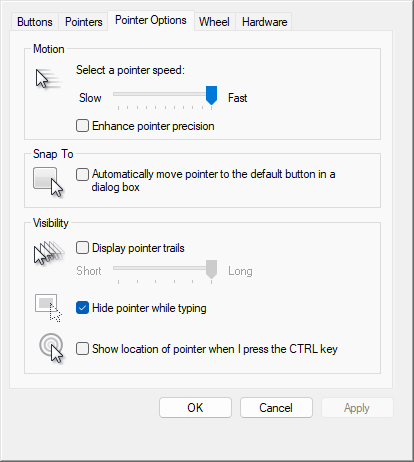
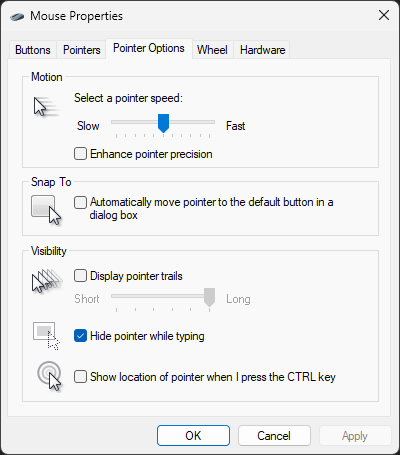
linear-mouse fixes

diff --git a/posts/linear-mouse.md b/posts/linear-mouse.md
@@ -34,7 +34,7 @@ My mice and trackballs are configurable, and I want the OS to respect that confi
 
 ### Microsoft Windows
 
-In the <cite>Settings</cite> app, open <cite>Bluetooth & devices</cite>, then <cite>Mouse</cite>, and select <cite>Additional mouse settings</cite>. In this window, switch to the <cite>Pointer options</cite> tab, max out the speed and make sure not to <cite>enhance pointer precision</cite>.
+In the <cite>Settings</cite> app, open <cite>Bluetooth & devices</cite>, then <cite>Mouse</cite>, and select <cite>Additional mouse settings</cite>. In this window, switch to the <cite>Pointer options</cite> tab, make sure the speed is 6/11 and not to <cite>enhance pointer precision</cite>.
 
 [![Windows configuration with the fastest pointer speed and no pointer precision enhancement](/assets/linear-mouse/windows.png)](/assets/linear-mouse/windows.png)
 
